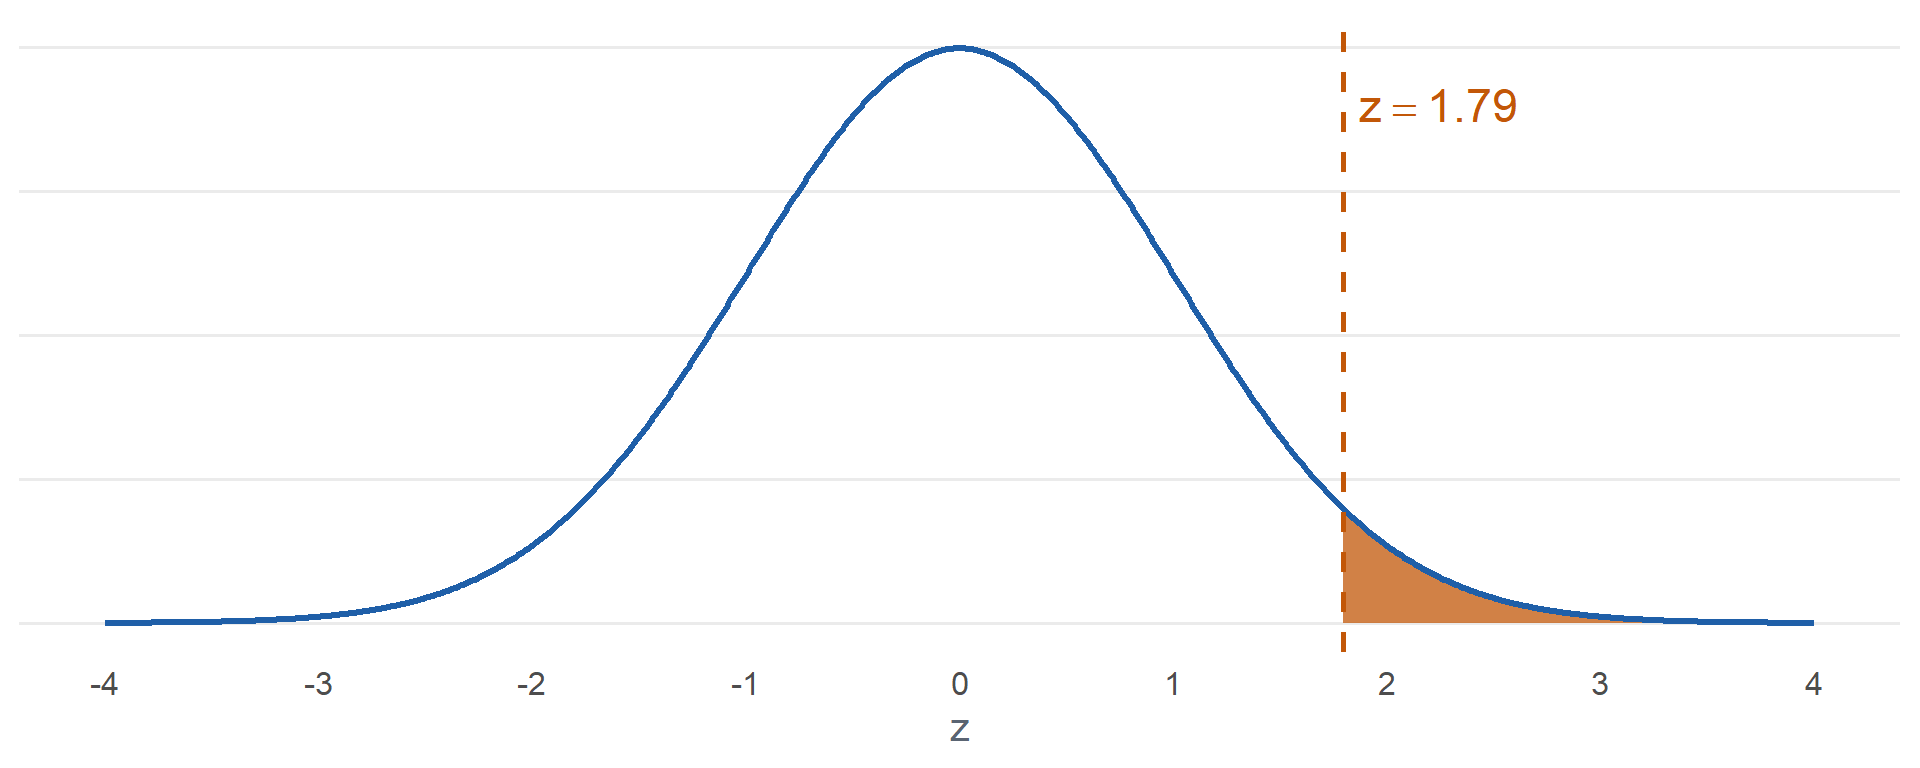
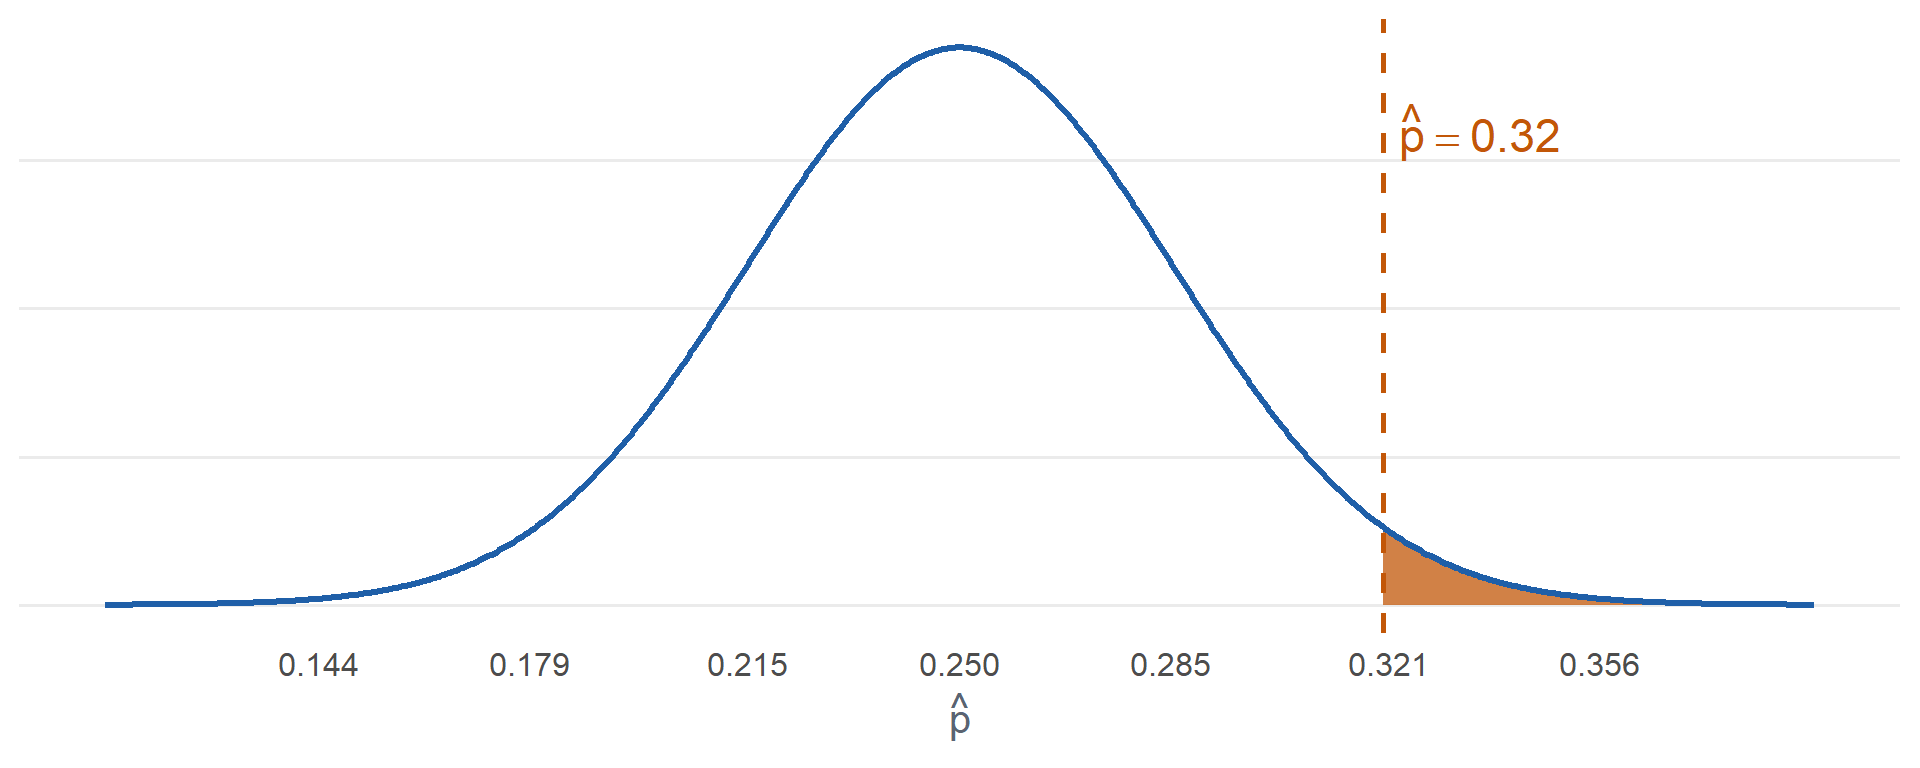
Sync westpoint folder from courses repo

diff --git a/public/westpoint/MA206-AY27-1/lesson-23.html b/public/westpoint/MA206-AY27-1/lesson-23.html
@@ -406,7 +406,18 @@ window.Quarto = {
 .srctable table > :not(caption) > * > * + * { border-left: 1px solid #dee2e6 !important; }
 .srctable code { white-space: nowrap; font-size: 0.85em; }
 </style>
-<!-- No XKCD or DMath sports. Break added 20 Oct (Dusty teaching after all), same as MA376 L23. -->
+<div class="cell" data-layout-align="center">
+<div class="cell-output-display">
+<div class="quarto-figure quarto-figure-center">
+<figure class="figure">
+<p><img src="lesson-23_files/figure-html/unnamed-chunk-1-1.png" class="img-fluid quarto-figure quarto-figure-center figure-img" style="width:60.0%"></p>
+</figure>
+</div>
+</div>
+</div>
+<!-- Previously used this term: 552 (L1), 2435 (L2), 982 (L3), 1132 (L4), 936 (L5), 795 (L6), flag (L7), 221 (L8), 904 (L9), flag (L10), 2117 (L11), 2118 (L12), 612 (L13), 2048 (L14), 1236 (L15), 2059 (L16), 2110 (L18), 2311 (L19), 1347 (L20), 539 (L21), 882 (L22) -->
+<!-- 2303 is "Error Types" (Type I through IX). Panel text checked, no profanity. -->
+<!-- No DMath sports. XKCD and Break added 20 Oct (Dusty teaching after all); Break same as MA376 L23. -->
 <section id="break" class="level2">
 <h2 class="anchored" data-anchor-id="break">Break!</h2>
 <div class="tabset-margin-container"></div><div class="panel-tabset">
@@ -680,7 +691,7 @@ window.Quarto = {
 <div class="cell-output-display">
 <div>
 <figure class="figure">
-<p><img src="lesson-23_files/figure-html/unnamed-chunk-2-1.png" class="img-fluid figure-img" alt="Normal curve for p-hat centered at 0.25. The observed p-hat of 0.32 is marked about two standard errors to the right, and the area to its right is shaded." width="960"></p>
+<p><img src="lesson-23_files/figure-html/unnamed-chunk-3-1.png" class="img-fluid figure-img" alt="Normal curve for p-hat centered at 0.25. The observed p-hat of 0.32 is marked about two standard errors to the right, and the area to its right is shaded." width="960"></p>
 </figure>
 </div>
 </div>
@@ -855,7 +866,7 @@ window.Quarto = {
 <div class="cell-output-display">
 <div>
 <figure class="figure">
-<p><img src="lesson-23_files/figure-html/unnamed-chunk-3-1.png" class="img-fluid figure-img" alt="Standard normal curve. The test statistic z equals 1.79 is marked and the area to its right is shaded." width="960"></p>
+<p><img src="lesson-23_files/figure-html/unnamed-chunk-4-1.png" class="img-fluid figure-img" alt="Standard normal curve. The test statistic z equals 1.79 is marked and the area to its right is shaded." width="960"></p>
 </figure>
 </div>
 </div>
@@ -975,7 +986,7 @@ window.Quarto = {
 <div class="cell-output-display">
 <div>
 <figure class="figure">
-<p><img src="lesson-23_files/figure-html/unnamed-chunk-4-1.png" class="img-fluid figure-img" alt="Standard normal curve. The test statistic z equals negative 0.94 is marked. The area to the left of negative 0.94 and the area to the right of 0.94 are both shaded." width="960"></p>
+<p><img src="lesson-23_files/figure-html/unnamed-chunk-5-1.png" class="img-fluid figure-img" alt="Standard normal curve. The test statistic z equals negative 0.94 is marked. The area to the left of negative 0.94 and the area to the right of 0.94 are both shaded." width="960"></p>
 </figure>
 </div>
 </div>
@@ -1192,7 +1203,7 @@ sample estimates:
 <div class="cell-output-display">
 <div>
 <figure class="figure">
-<p><img src="lesson-23_files/figure-html/unnamed-chunk-6-1.png" class="img-fluid figure-img" alt="t curve with 16 degrees of freedom. The test statistic t equals negative 2.39 is marked and the area to its left is shaded." width="960"></p>
+<p><img src="lesson-23_files/figure-html/unnamed-chunk-7-1.png" class="img-fluid figure-img" alt="t curve with 16 degrees of freedom. The test statistic t equals negative 2.39 is marked and the area to its left is shaded." width="960"></p>
 </figure>
 </div>
 </div>
